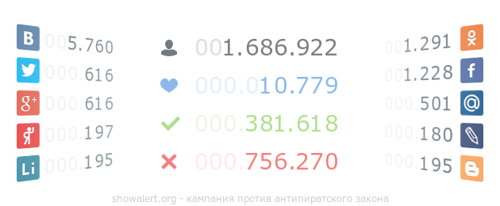
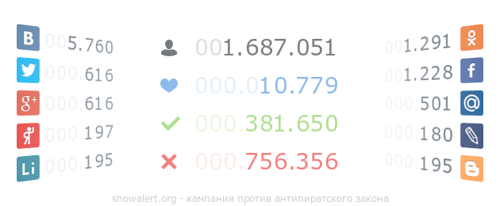
update statistics files for plugins

Changed region(s): [[0.54, 0.1748, 0.69, 0.2913], [0.6, 0.7282, 0.69, 0.8447], [0.6, 0.5534, 0.69, 0.6408]]

diff --git a/votes.js b/votes.js
@@ -1,1 +1,1 @@
-window.lk.votes(33293)
+window.lk.votes(33300)
